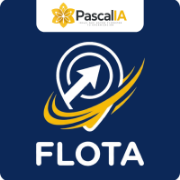
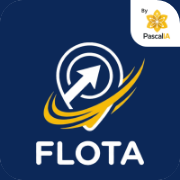
feat(flota): el logotipo nuevo, entero y sin recortar, en todos los iconos
Diseno entrego un logotipo pensado ya como icono: la muesca de "By
PascalIA" va arriba a la derecha, dentro del mismo cuadro azul. Se
reemplaza `iconos/logo-original.png` y TODOS los iconos pasan a ser ese
dibujo entero. Lo unico que cambia entre uno y otro es el tamano: ya no
hay recortes del emblema ni de la banda.

El generador solo hace dos cosas mas, y ninguna cambia el logotipo:

* Redondea las esquinas al radio que ya tiene el cuadro azul, para
  quitar el blanco que el archivo lleva por fuera de la curva. Sin eso
  el icono saldria con cuatro esquinas blancas en el escritorio.
* En el icono CON MASCARA mete el logotipo entero dentro de un cuadro
  azul mas grande. Android recorta ese icono en un circulo y la zona
  segura es el 80 % central; un cuadrado que quepa entero ahi mide el
  56 % del lado. Asi el circulo corta azul y no corta el logotipo: a
  tamano completo se comeria la muesca de PascalIA y la palabra FLOTA.

La firma del pie de cada pantalla sigue igual. Es lo unico que no sale
de ese archivo: viene de `iconos/pascalia-fuente.png`, la marca de
PascalIA en horizontal, que es como se lee en una linea de texto.

Pruebas: 165 + 165 + 109. Las de los iconos ahora comprueban en los
pixeles que el logotipo llegue entero: que este la muesca blanca de
arriba a la derecha, que la franja de abajo tenga la tinta de FLOTA y
que el borde del icono con mascara sea todo azul, que es lo que
garantiza que el circulo de Android no corte nada. El Worker no cambia.
[…]

diff --git a/FLOTA VEHICULAR/sw.js b/FLOTA VEHICULAR/sw.js
@@ -13,7 +13,7 @@
  * Estrategia: red primero, caché de respaldo. Así, con señal siempre se ve la
  * última versión publicada, y sin señal se ve la última que se alcanzó a ver.
  */
-const CACHE = 'flota-v7';
+const CACHE = 'flota-v8';
 
 const ARMAZON = [
   './', './index.html', './app.js', './manifest.json',

diff --git a/FLOTA VEHICULAR/PROJECT.md b/FLOTA VEHICULAR/PROJECT.md
@@ -333,7 +333,7 @@ Lo que lo hace posible:
 | Pieza | Para qué |
 |---|---|
 | `manifest.json` | Nombre, icono, color y modo `standalone`. Sin él el navegador no ofrece instalar |
-| `iconos/logo-original.png` | El logotipo tal como lo entregó diseño, con la marca de PascalIA. Es la fuente de todo lo demás |
+| `iconos/logo-original.png` | El logotipo tal como lo entregó diseño. Todos los iconos son este dibujo, entero |
 | `iconos/*.png` | Iconos **PNG reales** de 192 y 512 px, normales y con máscara, más `apple-touch-icon.png` de 180 px para iPhone |
 | `sw.js` | Guarda el armazón en el teléfono; es lo que permite abrir sin cobertura |
 | Franja y botón *Instalar* | El ofrecimiento propio de la aplicación, en el ingreso y dentro |
@@ -360,23 +360,27 @@ sí se guarda son las marcas tomadas sin cobertura, que la aplicación envía so
 > huérfana que no vuelve a recibir actualizaciones, y hay que desinstalar e instalar a mano
 > celular por celular. Lo mismo si se mueve la carpeta `FLOTA VEHICULAR/`.
 
-**Los iconos se recortan del logotipo, no se dibujan.** `iconos/generar.mjs` toma
-`logo-original.png` —cuadro azul, marca de **PascalIA** arriba, emblema en el centro, la palabra
-FLOTA abajo— y hace tres recortes, cada uno para donde se lee:
+**El logotipo no se toca.** `iconos/logo-original.png` es el que entregó diseño —cuadro azul, la
+muesca de *By PascalIA* arriba a la derecha, el emblema en el centro y la palabra FLOTA abajo— y
+**todos los iconos son ese mismo dibujo, entero**. Lo único que cambia entre uno y otro es el
+tamaño. `iconos/generar.mjs` hace solo dos cosas más, y ninguna cambia el logotipo:
 
-| Recorte | Dónde va | Por qué |
-|---|---|---|
-| **Completo**, con PascalIA | `icono-192`, `icono-512`, `apple-touch-icon` | Es el icono que se ve grande: el cuadro de instalación de Android, la lista de aplicaciones abiertas y el escritorio del iPhone |
-| **Emblema** solo | `icono-mascara-*`, `favicon-*`, `marca.png` | Android **recorta el icono con máscara en un círculo**: con el logotipo entero, la banda de PascalIA y la palabra FLOTA saldrían cortadas por la mitad. Y en un favicon de 16 px, o en la cabecera a 28 px, no se lee ninguna letra |
-| **PascalIA** sola | `pascalia.png` | El crédito *Desarrollado por* del pie de la pantalla de ingreso, que es donde sí se lee y por donde pasa todo el mundo cada mañana |
+1. **Redondea las esquinas** al mismo radio que ya tiene el cuadro azul, para quitar el blanco que
+   el archivo lleva por fuera de la curva. Sin eso, en el escritorio del teléfono se verían cuatro
+   esquinas blancas alrededor del icono.
+2. En el icono **con máscara**, mete el logotipo entero dentro de un cuadro azul más grande.
+   Android recorta ese icono en un círculo y la zona segura es el 80 % central; un cuadrado que
+   quepa entero ahí mide el 56 % del lado. Así **el círculo corta azul y no corta el logotipo**:
+   si se pusiera a tamaño completo, Android se comería la muesca de PascalIA y la palabra FLOTA.
 
-Es decir: **la marca de PascalIA está en el icono y está, legible, dentro de la aplicación**; lo
-único de lo que queda fuera son las piezas que el sistema recorta o encoge tanto que no se leería.
+La firma *By PascalIA* del pie de cada pantalla (`iconos/pascalia.png`) es lo único que no sale de
+ese archivo: viene de `iconos/pascalia-fuente.png`, la marca de PascalIA en horizontal, que es
+como se lee bien en una línea de texto.
 
-Si cambia el logotipo se reemplaza `logo-original.png`, se revisan las medidas de los recortes en
-el generador y se vuelve a ejecutar. Ojo: como los archivos conservan el nombre, un teléfono que
-ya tuviera la aplicación instalada puede tardar en cambiar el icono del escritorio; lo seguro es
-desinstalar e instalar de nuevo.
+Si cambia el logotipo se reemplaza `logo-original.png`, se comprueba que el radio de sus esquinas
+siga siendo el de `RADIO` y se vuelve a ejecutar `node iconos/generar.mjs iconos`. Ojo: como los
+archivos conservan el nombre, un teléfono que ya tuviera la aplicación instalada puede tardar en
+cambiar el icono del escritorio; lo seguro es desinstalar e instalar de nuevo.
 
 El instructivo para repartir a los conductores está en `INSTALAR_EN_EL_CELULAR.md`. Los iconos se
 regeneran con `node iconos/generar.mjs iconos` y todo lo anterior se comprueba con

diff --git a/FLOTA VEHICULAR/INSTALAR_EN_EL_CELULAR.md b/FLOTA VEHICULAR/INSTALAR_EN_EL_CELULAR.md
@@ -26,12 +26,7 @@ Si no aparece la franja:
 3. Confirme.
 
 > En Android la aplicación queda en el cajón de aplicaciones como cualquier otra,
-> con el icono azul de Flota, y se puede arrastrar a la pantalla de inicio.
->
-> Nota: al instalarla, Android puede recortar el icono en un círculo. En ese caso
-> muestra solo el emblema, sin la banda de PascalIA ni la palabra FLOTA — no cabrían
-> dentro del círculo. El logotipo completo sí sale en el cuadro de instalación, en
-> la lista de aplicaciones abiertas y al pie de la pantalla de ingreso.
+> con el logotipo de Flota, y se puede arrastrar a la pantalla de inicio.
 
 ## iPhone y iPad
 
